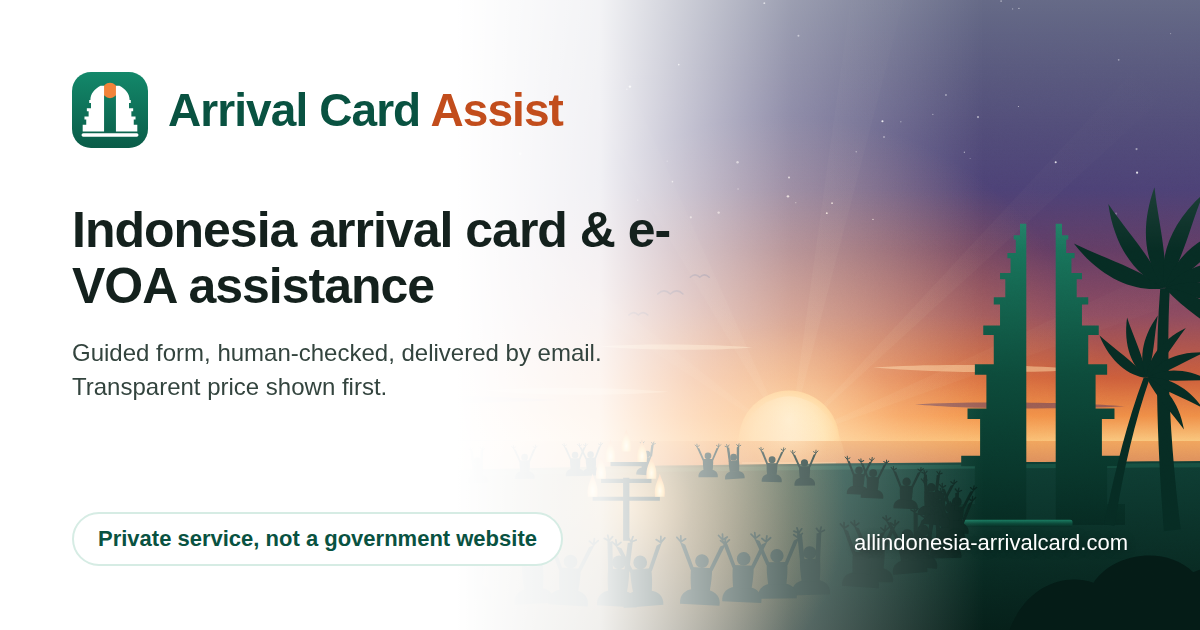
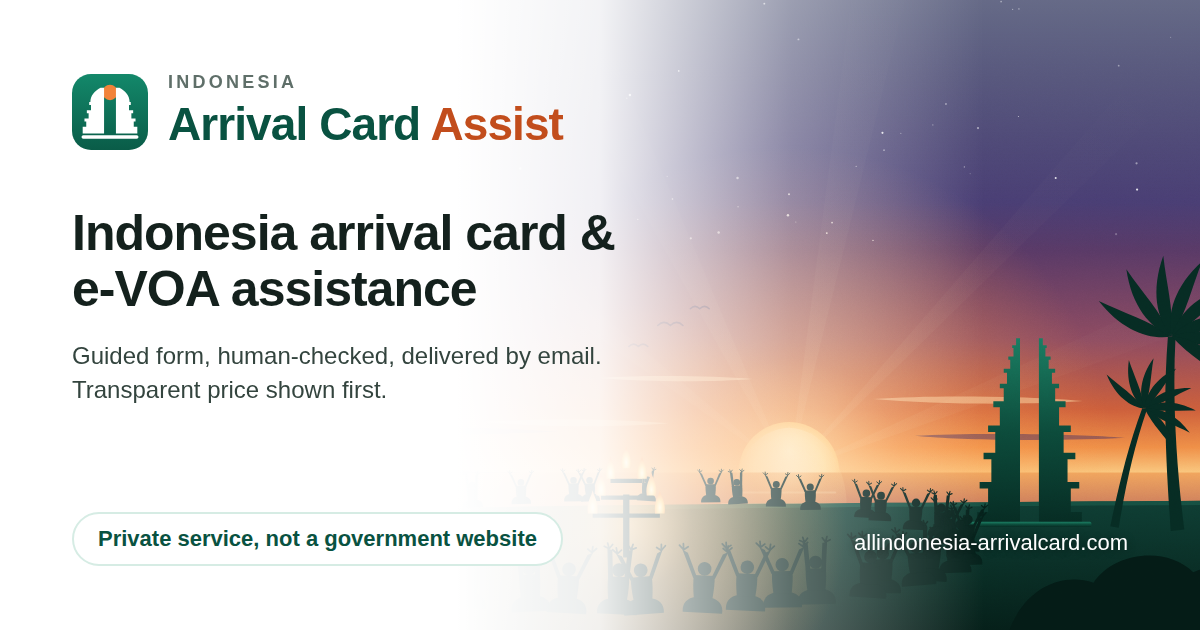
Brand: Indonesia Arrival Card Assist; real Kecak photo fetched at build with illustration fallback and credit; header fits at tablet width
Claude-Session: https://claude.ai/code/session_01LVPpDdPNzs2NxmRMSChPPp

diff --git a/components/Footer.tsx b/components/Footer.tsx
@@ -3,6 +3,12 @@ import { Link } from "@/i18n/navigation";
 import { site } from "@/lib/config";
 import { CookieSettingsLink } from "@/components/ConsentBanner";
 import { Logo } from "@/components/Logo";
+import { readFileSync } from "node:fs";
+import { join } from "node:path";
+
+function heroMeta(): { source?: string; url?: string } {
+  try { return JSON.parse(readFileSync(join(process.cwd(), "public", "hero.meta.json"), "utf8")); } catch { return {}; }
+}
 
 export async function Footer() {
   const t = await getTranslations("Footer");
@@ -50,6 +56,7 @@ export async function Footer() {
           </div>
         </div>
         <p className="mt-8">{t("rights", { year: new Date().getFullYear(), company: site.company })}</p>
+        {heroMeta().source === "commons" && <p className="mt-2 text-xs"><a className="underline" href={heroMeta().url} target="_blank" rel="noopener nofollow">{t("photoCredit")}</a></p>}
       </div>
     </footer>
   );

diff --git a/components/Logo.tsx b/components/Logo.tsx
@@ -45,8 +45,11 @@ export function Logo({ variant = "full", size = 36, className = "" }: { variant?
   return (
     <span className={`inline-flex items-center gap-2.5 ${className}`}>
       <LogoMark size={size} className="shrink-0" />
-      <span className="whitespace-nowrap font-semibold leading-none tracking-tight text-brand-700" style={{ fontSize }}>
-        Arrival Card <span className="text-accent-500">Assist</span>
+      <span className="flex flex-col whitespace-nowrap leading-none">
+        <span className="font-semibold uppercase tracking-[0.18em] text-ink-500" style={{ fontSize: Math.round(size * 0.27) }}>Indonesia</span>
+        <span className="mt-0.5 font-semibold tracking-tight text-brand-700" style={{ fontSize }}>
+          Arrival Card <span className="text-accent-500">Assist</span>
+        </span>
       </span>
     </span>
   );

diff --git a/components/Header.tsx b/components/Header.tsx
@@ -29,7 +29,7 @@ export async function Header() {
         </Link>
         <nav aria-label={t("mainNav")} className="hidden items-center gap-4 text-sm font-medium text-ink-700 lg:flex">
           {items.slice(0, 8).map((n, i) => (
-            <Link key={n.href} href={n.href} className={`whitespace-nowrap hover:text-brand-600${i >= 6 ? " hidden 2xl:inline" : i >= 5 ? " hidden xl:inline" : ""}`}>{n.label}</Link>
+            <Link key={n.href} href={n.href} className={`whitespace-nowrap hover:text-brand-600${i >= 6 ? " hidden 2xl:inline" : i >= 4 ? " hidden xl:inline" : ""}`}>{n.label}</Link>
           ))}
         </nav>
         <div className="flex items-center gap-2">

diff --git a/scripts/render-hero.tsx b/scripts/render-hero.tsx
@@ -75,7 +75,7 @@ async function main() {
   </style></head><body>
     <div class="bg">${scene}</div><div class="top"></div><div class="fade"></div>
     <div class="panel">
-      <div class="logo">${mark}<div class="word">Arrival Card <b>Assist</b></div></div>
+      <div class="logo">${mark}<div class="word"><div style="font-size:18px;letter-spacing:.18em;text-transform:uppercase;color:#5f6f69;font-weight:600;margin-bottom:4px">Indonesia</div>Arrival Card <b>Assist</b></div></div>
       <h1>${TAGLINE}</h1>
       <p>${SUB}</p>
     </div>

diff --git a/lib/config.ts b/lib/config.ts
@@ -1,6 +1,6 @@
 export const site = {
-  name: "Arrival Card Assist",
-  shortName: "Arrival Card Assist",
+  name: "Indonesia Arrival Card Assist",
+  shortName: "Indonesia Arrival Card Assist",
   url: process.env.NEXT_PUBLIC_SITE_URL ?? "http://localhost:3000",
   company: process.env.NEXT_PUBLIC_COMPANY_NAME ?? "Bulan Juli Limited",
   companyReg:

diff --git a/docs/email-authentication.md b/docs/email-authentication.md
@@ -8,7 +8,7 @@ Do this before the first order. Without it the QR delivery email lands in spam t
    - **DKIM**: TXT, name `resend._domainkey`, value = the long `p=…` key Resend shows.
    - **SPF for the sending subdomain**: Resend uses a `send` subdomain by default: MX `send` → `feedback-smtp.<region>.amazonses.com` priority 10, and TXT `send` → `v=spf1 include:amazonses.com ~all`. Copy exactly what Resend shows; the region part differs.
 3. Click Verify in Resend. Status must be "Verified" for all records.
-4. Set `EMAIL_FROM="Arrival Card Assist <no-reply@allindonesia-arrivalcard.com>"` and `RESEND_API_KEY` in Vercel, redeploy.
+4. Set `EMAIL_FROM="Indonesia Arrival Card Assist <no-reply@allindonesia-arrivalcard.com>"` and `RESEND_API_KEY` in Vercel, redeploy.
 
 ## 2. SPF on the root domain
 If nothing else sends mail from the root domain, add a TXT record on `@`:

diff --git a/docs/launch-checklist.md b/docs/launch-checklist.md
@@ -60,7 +60,7 @@ at `/admin/reminders`. If Supabase was set up before this change, run the `remin
 
 ## 4c. Brand
 
-Domain: allindonesia-arrivalcard.com. Visible brand everywhere (logo, titles, emails, ads): **Arrival Card Assist**.
+Domain: allindonesia-arrivalcard.com. Visible brand everywhere (logo, titles, emails, ads): **Indonesia Arrival Card Assist**.
 "All Indonesia" is only ever used descriptively for the government's arrival card, never as our name.
 
 ## 5. Ops
